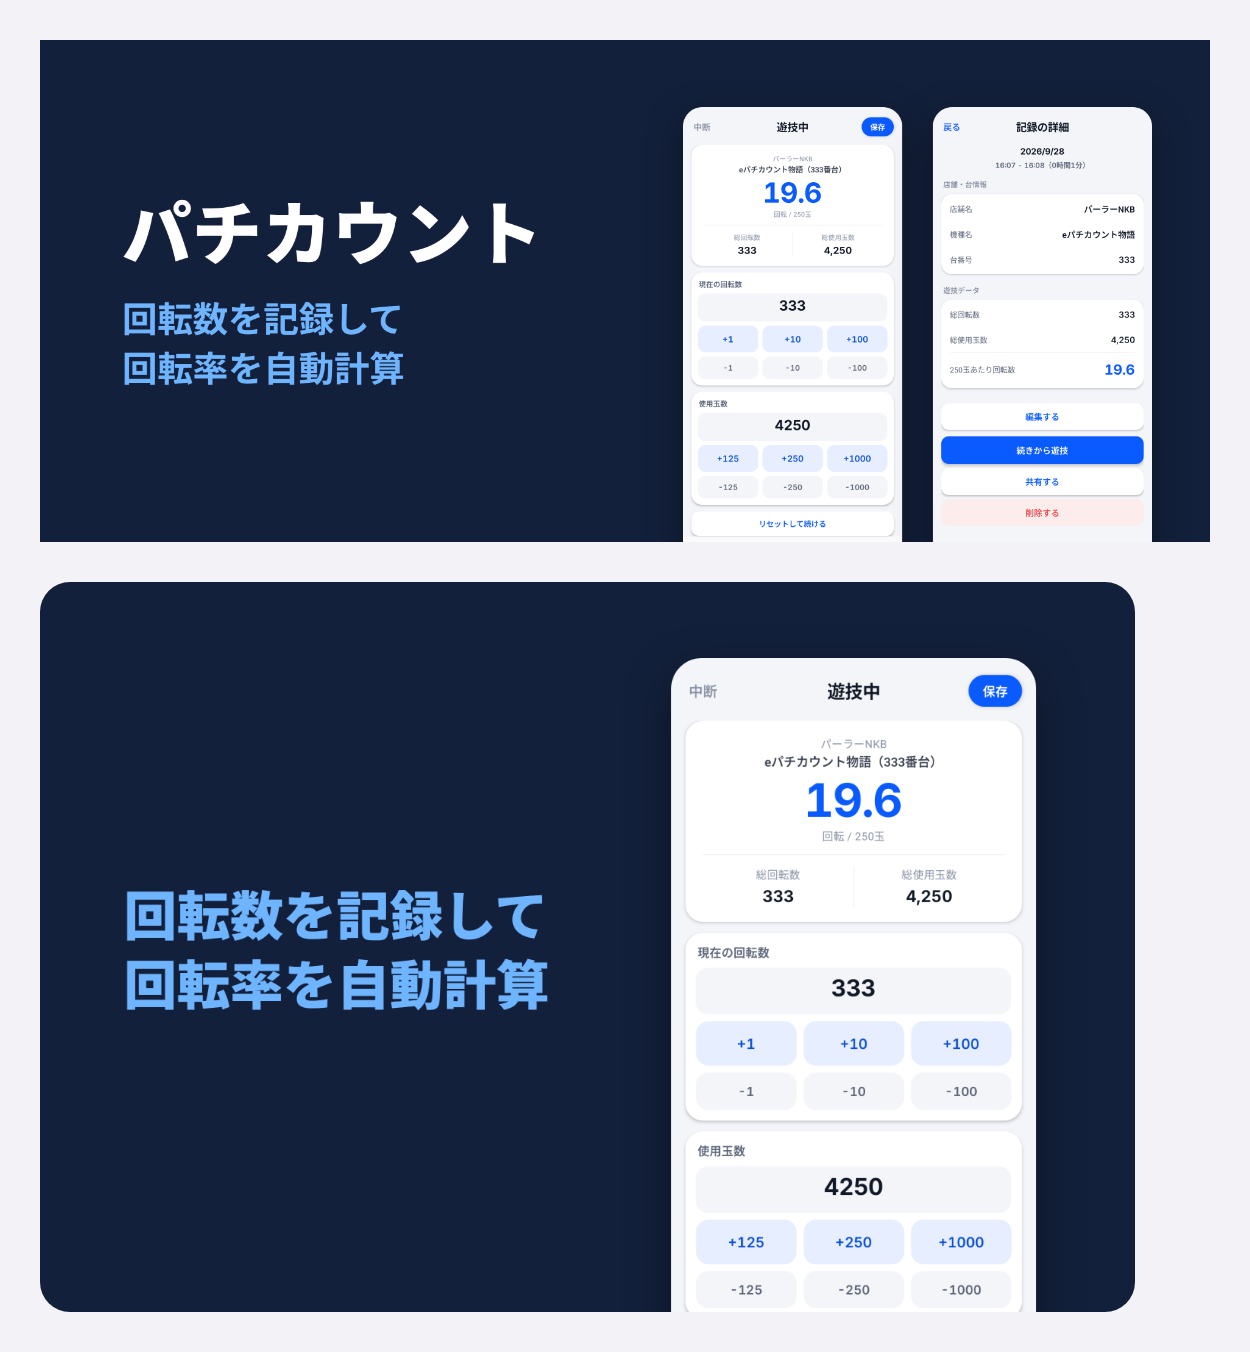
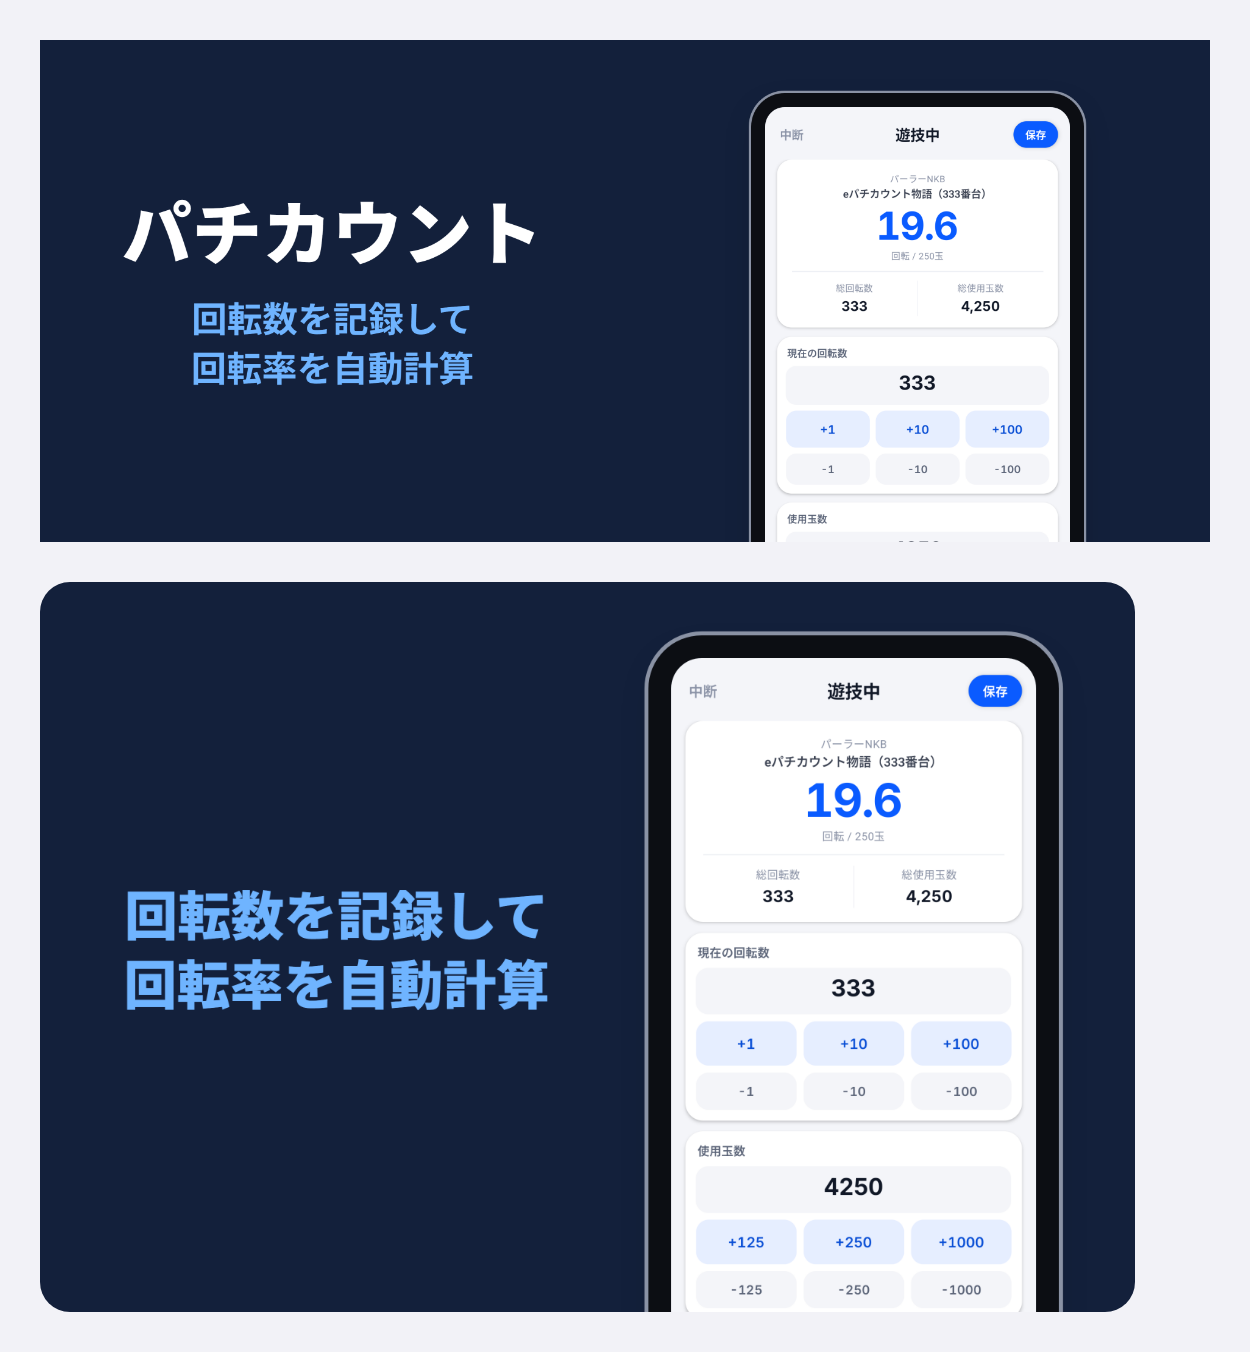
App Store のヘッダと検索結果の画像を、字は中央揃え・画面は端末の縁で描き直す

diff --git a/scripts/appstore-art.html b/scripts/appstore-art.html
@@ -9,14 +9,16 @@
   /* App Store のプロダクトページのヘッダ（21:9、3840×1646）と検索結果（3:2、2880×1920）。
      make-appstore-art.mjs が画面なしの Edge で写す。設定は URL の # に JSON で渡る。
      ヘッダ: 左半分に名前と一言、右半分に実際の画面。どちらもそれぞれの側の真ん中に置く。
-     検索結果: 名前はアイコンの横に出るので一言だけ。縦の画面は右、横の画面は下に置く */
+     検索結果: 名前はアイコンの横に出るので一言だけ。縦の画面は右、横の画面は下に置く。
+     字は中央揃え。画面と地の境目は frame で強める（none / border / device / plate / glow） */
   html, body { margin: 0; overflow: hidden; }
   .g { position: relative; overflow: hidden; font-family: "Noto Sans JP", "Yu Gothic UI", sans-serif; }
   .text { position: absolute; display: flex; flex-direction: column; justify-content: center; align-items: center; }
-  .inner { display: flex; flex-direction: column; }
+  .inner { display: flex; flex-direction: column; align-items: center; text-align: center; }
   .name { font-weight: 900; line-height: 1.1; white-space: nowrap; letter-spacing: 0.01em; }
   .tag { white-space: pre; }
   .shot { position: absolute; overflow: hidden; box-shadow: 0 40px 120px rgba(0, 0, 0, 0.35); }
+  .plate { position: absolute; }
   .shot img { position: absolute; left: 0; width: 100%; display: block; }
 
   .header { width: 3840px; height: 1646px; }
@@ -52,13 +54,29 @@ const W = c.kind === 'header' ? 3840 : 2880;
 const H = c.kind === 'header' ? 1646 : 1920;
 const landscape = c.screens.some((s) => s.landscape);
 
+// 画面と地の境目の見せ方。s は太さの倍率（検索結果は縮んで出るので太め）
+const SHADOW = '0 40px 120px rgba(0, 0, 0, 0.35)';
+const FRAMES = {
+  none: () => SHADOW,
+  // 白い縁で切り抜いたように見せる
+  border: (s) => `0 0 0 ${30 * s}px #ffffff, ${SHADOW}`,
+  // 黒い縁と細い明るい線で、端末に入っているように見せる
+  device: (s) => `0 0 0 ${46 * s}px #0c0e13, 0 0 0 ${54 * s}px #8a92a4, ${SHADOW}`,
+  // 画面のまわりをうっすら光らせる
+  glow: (s) => `0 0 0 ${10 * s}px rgba(255, 255, 255, 0.7), 0 0 ${240 * s}px ${70 * s}px rgba(255, 255, 255, 0.4)`,
+  // 画面の側の地を明るくする（板は下で敷く）
+  plate: () => SHADOW,
+};
+const frame = FRAMES[c.frame] ? c.frame : 'none';
+const fs = c.kind === 'search' ? 1.3 : 1;
+
 // 画面を置く。縦の画面は下へはみ出させ、上だけ切る（ステータスバーを落とす）
 function placeShots(boxes) {
   return c.screens.map((s, i) => {
     const b = boxes[i];
     const div = document.createElement('div');
     div.className = 'shot';
-    Object.assign(div.style, { left: b.x + 'px', top: b.y + 'px', width: b.w + 'px', height: b.h + 'px', borderRadius: b.r + 'px' });
+    Object.assign(div.style, { left: b.x + 'px', top: b.y + 'px', width: b.w + 'px', height: b.h + 'px', borderRadius: b.r + 'px', boxShadow: FRAMES[frame](fs) });
     const img = new Image();
     img.src = s.src;
     div.appendChild(img);
@@ -78,7 +96,7 @@ if (c.kind === 'header') {
     const w = 1760, h = Math.round(w / c.screens[0].aspect);
     boxes = [{ x: 2880 - w / 2, y: (H - h) / 2, w, h, r: 40 }];
   } else {
-    const n = c.screens.length, w = n === 1 ? 900 : 720, gap = 100;
+    const n = c.screens.length, w = n === 1 ? 1000 : 720, gap = 100;
     const total = n * w + (n - 1) * gap;
     boxes = c.screens.map((s, i) => ({ x: 2880 - total / 2 + i * (w + gap), y: 220, w, h: H, r: 64 }));
   }
@@ -90,6 +108,17 @@ if (c.kind === 'header') {
   const w = 960;
   boxes = [{ x: 2140 - w / 2, y: 200, w, h: H, r: 80 }];
   text = { x: 0, y: 0, w: 1560, h: H };
+}
+// plate のときは、画面の側（字の枠の外）の地を明るくする
+if (frame === 'plate') {
+  const p = document.createElement('div');
+  p.className = 'plate';
+  p.style.background = c.colors.plate || `color-mix(in srgb, ${c.colors.bg}, #ffffff 24%)`;
+  const box = landscape && c.kind === 'search'
+    ? { x: 0, y: text.h, w: W, h: H - text.h }
+    : { x: text.w, y: 0, w: W - text.w, h: H };
+  Object.assign(p.style, { left: box.x + 'px', top: box.y + 'px', width: box.w + 'px', height: box.h + 'px' });
+  g.appendChild(p);
 }
 const textEl = document.querySelector('.text');
 Object.assign(textEl.style, { left: text.x + 'px', top: text.y + 'px', width: text.w + 'px', height: text.h + 'px' });
